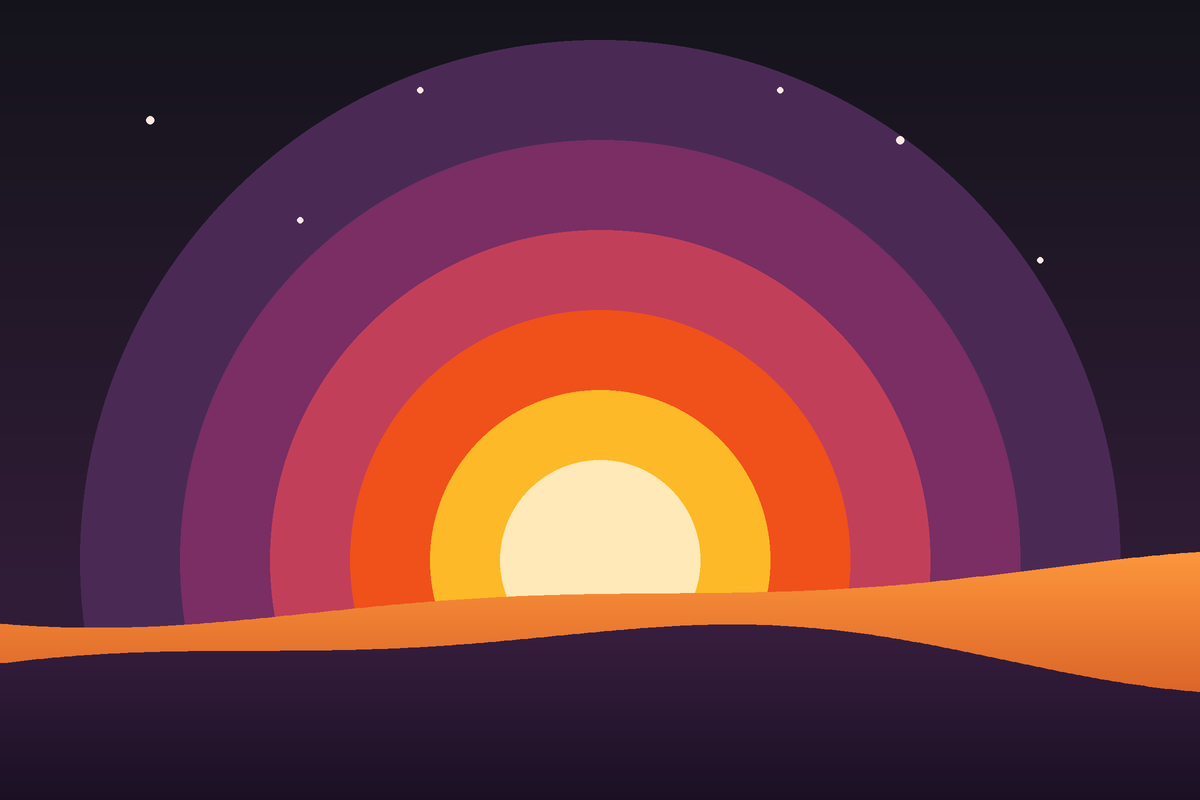
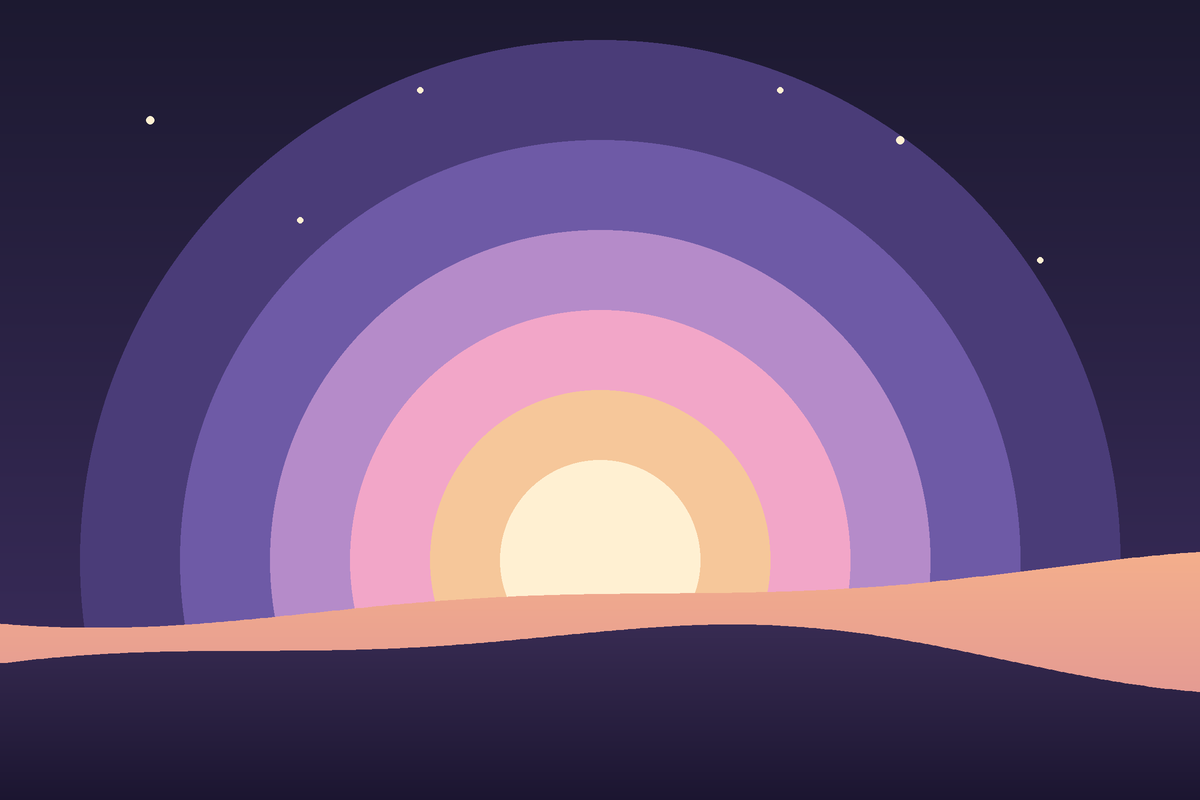
Soften the palette: lavender primary with pastel companions
- Vermilion was too loud against the illustrations. Lavender is now the one primary,
  with butter, peach, sky, blossom and mint for data and medals.
- Redraw the milestone sunrise in pastels. Document the palette and the two softened images.

diff --git a/GYLT/03-Design/APP-DESIGN.md b/GYLT/03-Design/APP-DESIGN.md
@@ -40,23 +40,27 @@ Calm, confident and professional. Opal's focus-session calm (dark, big type, one
 Onboarding (welcome, how it works, the deal, your promises, permissions), Today (week strip, hero card, shield row, rest of today), focus flow (intervention, session, app block, payoff), Promises, Coach, Progress, and sheets (change the plan, stuck, finish with proof, edit promise, personality, boundaries, settings, AI keys, apps).
 
 
-## v4: Meadow Dusk palette and art (Nov 2026)
+## v4: Meadow Dusk palette and art (Nov 2026, softened)
 
 Real illustrations replace drawn shapes. Source: The Open Meadows Library (CC BY 4.0), 8 images in `app/GYLT/Resources/Art`, plus 3 GYLT originals. Credit lives in Settings and `Art/CREDITS.md`.
 
+The first pass used a hot vermilion for every control, which fought the soft art. The palette is now calm: **lavender is the one primary**, and the pastel hues from the illustrations are companions used for data and medals. Text on a pastel fill is always ink.
+
 | Role | Colour |
 |---|---|
-| Ink (dark background) | `#14131B` |
+| Ink (dark background) | `#16141D` |
+| Dark surfaces | `#201D2A`, `#2B2837`, `#393446` |
 | Cream (light background) | `#F6F0E6` |
-| Vermilion (primary, buttons, progress) | `#EE4B2B` (small text on dark: `#FF8467`) |
-| Sunset orange | `#F0501A` |
-| Amber | `#FDB927` |
-| Periwinkle | `#4A6BEA` |
-| Blossom | `#FF9BD2` |
-| Lavender | `#CDB8F5` |
-| Forest | `#2F8F58` |
+| **Lavender** (primary: buttons, toggles, rings, active tab) | `#B9A6F5` (soft tint `#2E2445` on dark; text `#CDBEF8`) |
+| Lavender, deep (primary on light screens, white text on it) | `#6F59C9` |
+| Butter | `#F6D68B` |
+| Peach (streak flame) | `#F5B08B` |
+| Sky | `#9DB6FF` |
+| Blossom | `#F7A9D3` |
+| Mint | `#9ADBB6` |
 | Night | `#232A45` |
-| Dark surfaces | `#1E1B27`, `#2A2634`, `#383344` |
 
-Moods: Sunset (walk), Morning (bed), Night (call it a night), Flow (paused, forest and cream). Medals use one hue each: 3 amber, 7 vermilion, 14 periwinkle, 30 blossom, 60 forest, 100 lavender.
+Medals, one pastel each with an ink numeral: 3 butter, 7 peach, 14 sky, 30 blossom, 60 mint, 100 lavender.
+Moods: Sunset (walk), Morning (bed), Night (call it a night), Flow (paused).
+The two hottest illustrations are softened: the walk art is desaturated a little, and the red-room intervention art is tinted toward plum (hue-rotate, desaturated). Both are cosmetic filters on the credited originals.
 The canvas (https://claude.ai/artifact/c99cbd6f-1334-470c-945d-9d23f4033006) shows every screen in this system, including a Palette board.
